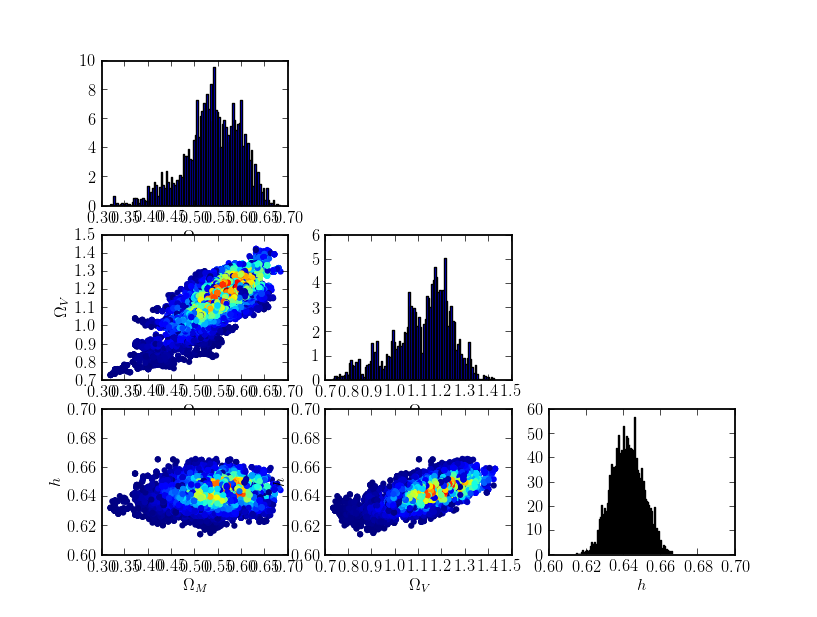
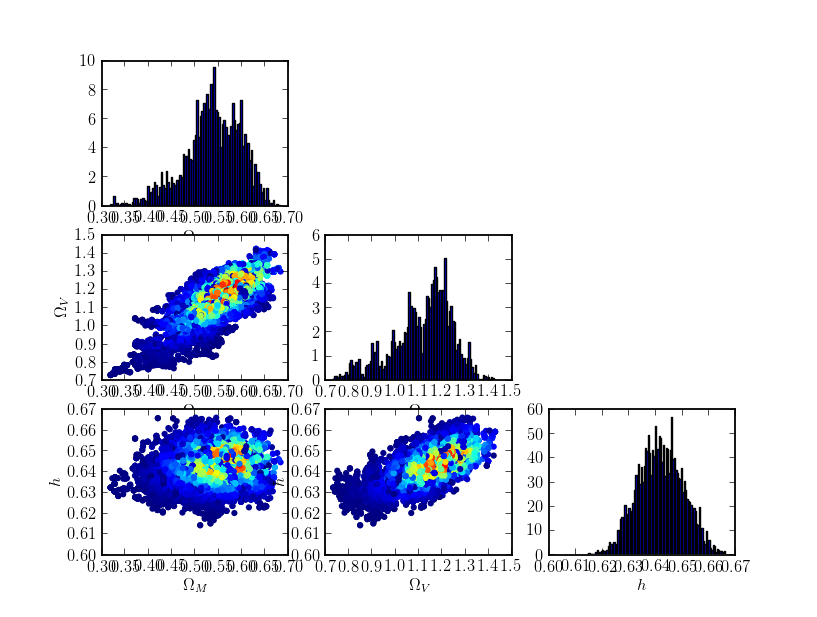
parallelised code

Changed region(s): [[0.0612, 0.6467, 0.612, 0.893], [0.6732, 0.6775, 0.918, 0.9238]]

diff --git a/mcmc_involved/mcmc2.py b/mcmc_involved/mcmc2.py
@@ -4,7 +4,8 @@ import numpy as np
 import math 
 import scipy 
 import mcmc_sub as sub
-import time
+import time, sys
+from mpi4py import MPI
 
 def log_normal_gaussian(x, mu, sigma):
 
@@ -15,6 +16,12 @@ def log_normal_gaussian(x, mu, sigma):
 	return np.log(1.0 / np.sqrt(2.0 * np.pi) / sigma) + y
 
 
+def Log(print_string):
+
+	if my_rank == 0:
+		print print_string
+
+	return 0
 
 def do_general_mc (start_params, NSAMPLES, data, f_likelihood, sigmas, prior = None, param_limits=None, return_accept=False):
 
@@ -69,6 +76,16 @@ def do_general_mc (start_params, NSAMPLES, data, f_likelihood, sigmas, prior = N
 
 	for i in range(1,NSAMPLES):
 
+		if (float(i) % 100) == 0:
+			tnow = time.time()
+			eta = (NSAMPLES - i) * (tnow - t0) / (float(i))
+			Log("Number %i, time elapsed %.2fs, eta %.2fs" % (i, tnow - t0, eta) )
+			Log("Acceptance %.2fpc" % (float(accept) / i))
+			#print "Thread %i: %i, time elapsed %.2fs, eta %.2fs" % (my_rank, i, tnow - t0, eta)
+			#sys.stdout.write("Number %i, time elapsed %.2fs, eta %.2fs" % (i, tnow - t0, eta))
+			#sys.stdout.write("Acceptance %.2fpc\n" % (float(accept) / i))
+			#sys.stdout.flush()
+
 
 		# generate trial points from our proposal distribution
 		# change this
@@ -103,7 +120,6 @@ def do_general_mc (start_params, NSAMPLES, data, f_likelihood, sigmas, prior = N
 	ps = np.e ** ps
 
 	tnew = time.time()
-	print tnew - t0
 
 	if return_accept:
 		return params, ps, np.float(accept) / NSAMPLES
@@ -111,7 +127,7 @@ def do_general_mc (start_params, NSAMPLES, data, f_likelihood, sigmas, prior = N
 		return params, ps
 
 
-def make_plot(params, ps, fname, labels, lims, nbins = 100):
+def make_plot(params, ps, fname, labels, lims, twodhist=p.scatter, nbins = 100):
 
 	'''
 	make a triangular shaped plot, with 2D probability
@@ -141,16 +157,13 @@ def make_plot(params, ps, fname, labels, lims, nbins = 100):
 			iy = i
 
 			p.subplot(nparams, nparams, i_2d)
-			p.scatter(params[ix], params[iy], c=ps, edgecolors="None")
+			twodhist(params[ix], params[iy], c=ps, edgecolors="None")
 
 			p.xlim(lims[ix])
 			p.ylim(lims[iy])
 
 			p.xlabel(labels[ix])
 			p.ylabel(labels[iy])
-
-			print "subplot:", nparams, nparams, i_2d 
-			print "x:", labels[ix], "y:", labels[iy]  
 
 	p.savefig(fname)
 	p.clf()
@@ -252,14 +265,44 @@ def p_accept_curve(svals = np.arange(-5,0.5,0.1)):
 
 	return 0
 
+t0 = time.time()
+nproc = MPI.COMM_WORLD.Get_size()   	# number of processes
+my_rank = MPI.COMM_WORLD.Get_rank()   	# The number/rank of this process
+my_node = MPI.Get_processor_name()    	# Node where this MPI process runs
+
+NWALKERS = nproc 						# number of walkers in total									# total number of models to run	
+n_walkers = NWALKERS / nproc					# number of walkers for each thread
+remainder = NWALKERS - ( n_walkers * nproc )	# the remainder. e.g. your number of models may 
+
+NSAMPLES = int(sys.argv[1])							# total number of samples 
+nsamples = NSAMPLES / NWALKERS			# number of samples per walker
+
+# little trick to spread remainder out among threads
+# if say you had 19 total walkers, and 4 threads
+# then n_models = 4, and you have 3 remainder
+# this little loop would distribute these three 
+if remainder < my_rank + 1:
+	my_extra = 0
+	extra_below = remainder
+else:
+	my_extra = 1
+	extra_below = my_rank
+
+# where to start and end your loops for each thread
+my_nmin = (my_rank * n_walkers) + extra_below
+my_nmax = my_nmin + n_walkers + my_extra
+
+# total number you actually do
+ndo = my_nmax - my_nmin
+print "This is thread %i with walkers %i to %i, chain lengths %i" % (my_rank, my_nmin, my_nmax, nsamples)	
+
+
+# set barrier so print output doesn't look muddled
+# just waits for other thread
+MPI.COMM_WORLD.Barrier()
 
 data = sub.read_SN()	# read data, len 3 array
 
-omega_start = 0.5
-h_start = 0.5
-NSAMPLES = 10000
-sigmas = [0.01,0.01]
-starts = np.array([omega_start, h_start])
 
 # do first MC and plot up
 # params, ps = do_general_mc (starts, NSAMPLES, data, log_likelihood_chi2, sigmas)
@@ -273,12 +316,52 @@ starts = np.array([omega_start, h_start])
 # params, ps = do_general_mc (starts, NSAMPLES, data, log_likelihood_chi2, sigmas, prior=h_prior_narrow)
 # make_plot(params, ps, "posterior3_withnarrowprior.png", labels=["$\Omega_m$", "$h$"], lims=[(0,1), (0,1)])
 
-
 # p_accept_curve()
 # do first MC and plot up
-starts = np.array([0.45, 0.9, 0.65])
-sigmas = [0.01, 0.01, 0.01]
-params, ps = do_general_mc (starts, 10000, data, log_likelihood_chi2_nonflat, sigmas)
-make_plot(params, ps, "posterior1.png", labels=["$\Omega_M$", "$\Omega_V$", "$h$"], lims=[(0.,1), (0.,1), (0.6,0.66)])
+
+all_params = np.empty((0,3))
+all_ps = np.empty((0))
+
+for i in range( my_nmin, my_nmax):
+	starts = np.array([0.45 + 0.1*np.random.random(), 0.9+0.1*np.random.random(), 0.65+0.1*np.random.random()])
+	sigmas = [0.01, 0.01, 0.01]
+	params, ps = do_general_mc (starts, nsamples, data, log_likelihood_chi2_nonflat, sigmas)
+
+	all_params = np.concatenate((all_params, params.T))
+	all_ps = np.concatenate((all_ps, ps.T))
+
+all_params = all_params.T
+all_ps = all_ps.T
+
+Log('Waiting for threads to finish...')
+
+# set barrier so print output doesn't look muddled
+# just waits for other thread
+MPI.COMM_WORLD.Barrier()
+
+
+
+xps = MPI.COMM_WORLD.gather(all_ps, root=0)
+xparams = MPI.COMM_WORLD.gather(all_params, root=0)
+
+if my_rank == 0:
+	print "gathering chains from other threads"
+
+	all_pdata = np.zeros(NSAMPLES)
+	all_paramdata = np.zeros( (3, NSAMPLES) )
+
+	print "Data gathered." 
+
+	for i in range(nproc):
+		all_pdata[i * n_walkers * nsamples: (i+1) * n_walkers * nsamples] = xps[i]
+		all_paramdata[:,i * n_walkers * nsamples: (i+1) * n_walkers * nsamples] = xparams[i]
+
+	print "Shape of param array ", all_paramdata.shape
+	make_plot(params, ps, "posterior_NSAMPLES%i.png" % NSAMPLES, labels=["$\Omega_M$", "$\Omega_V$", "$h$"], lims=[(0.3,0.7), (0.7,1.5), (0.6,0.7)])
+
+
+print "Total Time Elapsed %.2fs" % (time.time() - t0)
+MPI.COMM_WORLD.Finalize()
+
 
 
